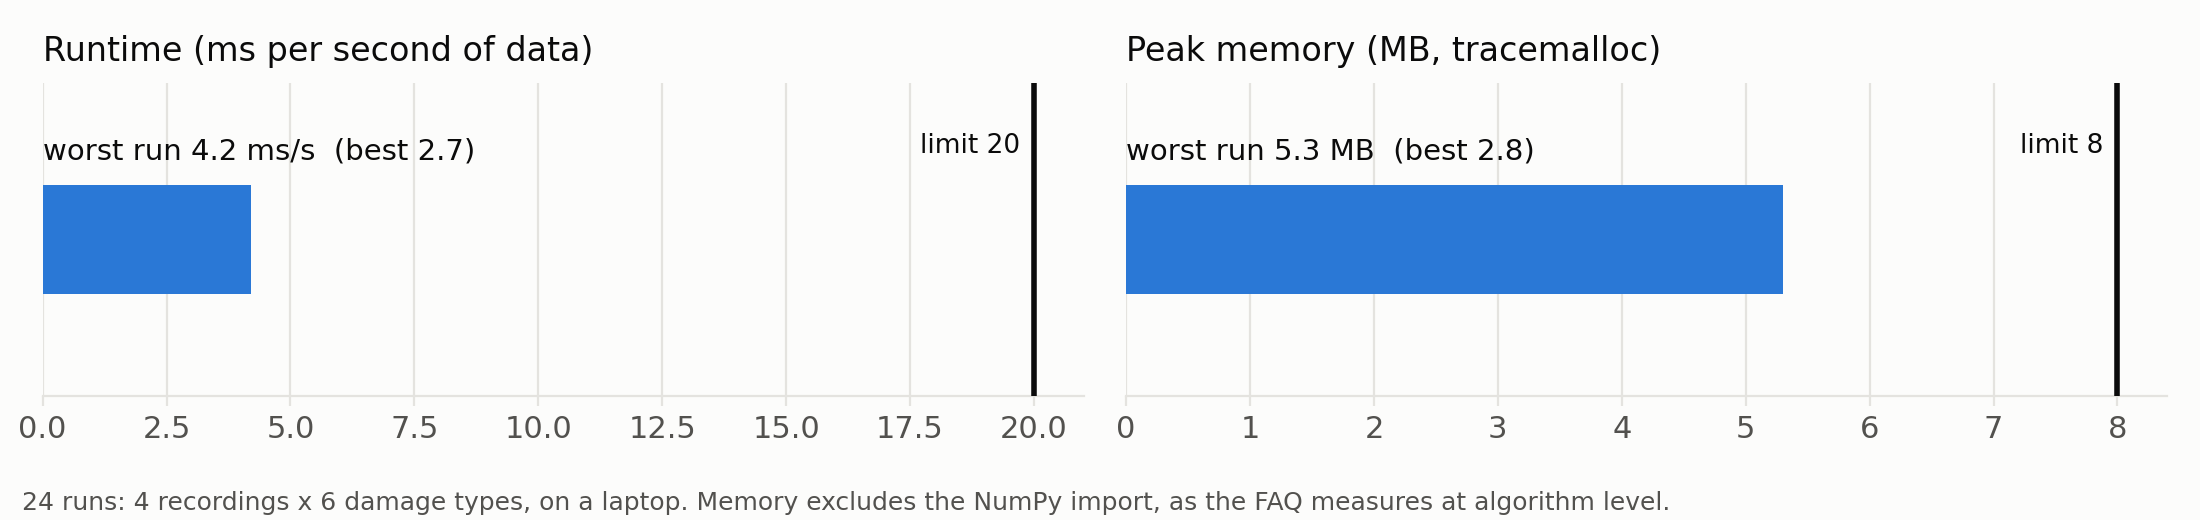
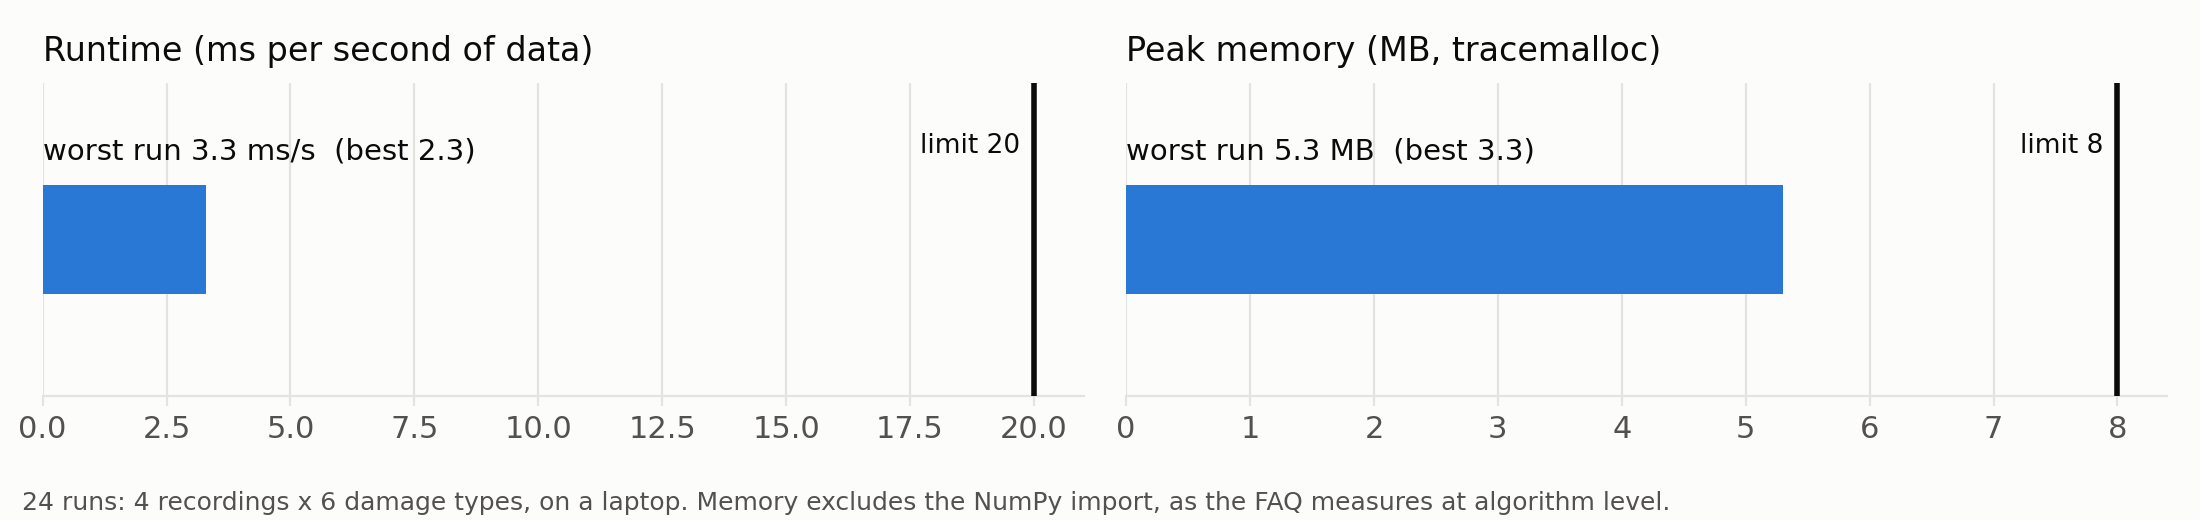
results and charts for sarthak-v7

Changed region(s): [[0.0927, 0.3385, 0.1236, 0.5846], [0.0618, 0.2769, 0.2164, 0.3077], [0.68, 0.2769, 0.7109, 0.3077]]

diff --git a/tools/plot_results.py b/tools/plot_results.py
@@ -160,7 +160,7 @@ def chart_budget(ours, out):
 
 def main():
     ap = argparse.ArgumentParser()
-    ap.add_argument("--label", default="sarthak-v6")
+    ap.add_argument("--label", default="sarthak-v7")
     ap.add_argument("--base", default="stay-still")
     ap.add_argument("--results", default="results/results.csv")
     ap.add_argument("--out", default="docs/figures")
